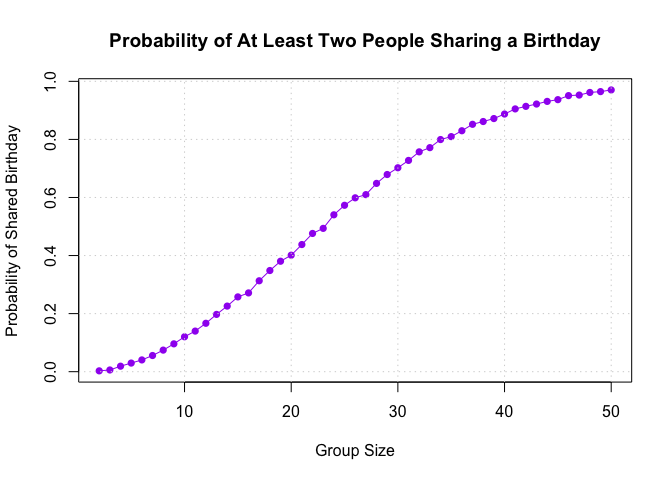
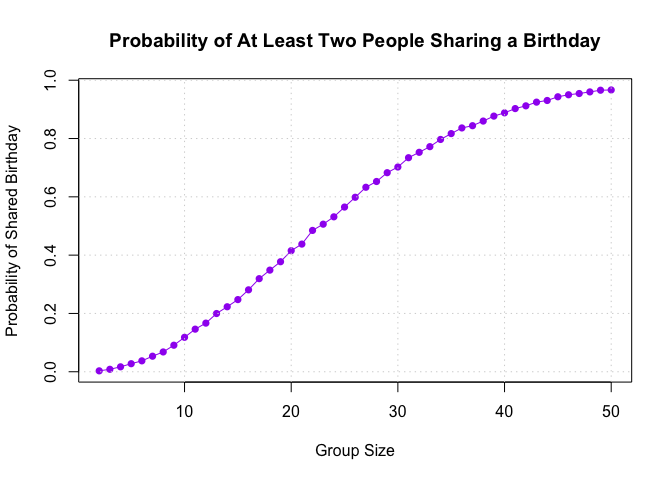
knit

diff --git a/P8105_HW5_YX2953.md b/P8105_HW5_YX2953.md
@@ -1,0 +1,283 @@
+P8105_HW5_YX2953
+================
+2024-11-13
+
+Problem 1
+
+``` r
+birthday_simulation <- function(group_size) {
+  # Generate random birthdays for the group
+  birthdays <- sample(1:365, group_size, replace = TRUE)
+  # Check if there are any duplicate birthdays
+  return(any(duplicated(birthdays)))
+}
+
+birthday_paradox_probabilities <- function(max_group_size = 50, simulations = 10000) {
+  probabilities <- numeric(max_group_size - 1)
+  
+  for (group_size in 2:max_group_size) {
+    # Run the simulation and calculate the probability of duplicate birthdays
+    duplicates <- sum(replicate(simulations, birthday_simulation(group_size)))
+    probabilities[group_size - 1] <- duplicates / simulations
+  }
+  
+  return(probabilities)
+}
+
+# Run the simulation for group sizes 2 to 50
+probabilities <- birthday_paradox_probabilities()
+
+# Plot the probabilities
+group_sizes <- 2:50
+plot(group_sizes, probabilities, type = "o", pch = 16, col = "purple",
+     xlab = "Group Size", ylab = "Probability of Shared Birthday",
+     main = "Probability of At Least Two People Sharing a Birthday")
+grid()
+```
+
+![](P8105_HW5_YX2953_files/figure-gfm/unnamed-chunk-1-1.png)<!-- -->
+
+Problem 2
+
+``` r
+library(broom)
+
+n <- 30
+sigma <- 5
+alpha <- 0.05
+mu_values <- c(0, 1, 2, 3, 4, 5, 6)
+num_simulations <- 5000
+
+# Create empty data frame to store results
+results <- data.frame(mu = numeric(), estimate = numeric(), p_value = numeric())
+
+# for each mu, sun the simulation 
+for (mu in mu_values) {
+  for (i in 1:num_simulations) {
+    # Generate random sample from N(mu, sigma)
+    x <- rnorm(n, mean = mu, sd = sigma)
+    
+    # Perform one-sample t-test
+    t_test_result <- t.test(x, mu = 0)
+    
+    # Extract estimate and p-value
+    tidy_result <- tidy(t_test_result)
+    estimate <- tidy_result$estimate
+    p_value <- tidy_result$p.value
+    
+    # Store results
+    results <- rbind(results, data.frame(mu = mu, estimate = estimate, p_value = p_value))
+  }
+}
+
+# Calculate power for each mu
+power_results <- aggregate(p_value ~ mu, data = results, function(p) mean(p < alpha))
+
+# Plot power as a function of effect size
+plot(power_results$mu, power_results$p_value, type = "o", pch = 16, col = "purple",
+     xlab = "True Value of Mu", ylab = "Power (Proportion of Null Rejections)",
+     main = "Power of the Test as a Function of Effect Size")
+grid()
+```
+
+![](P8105_HW5_YX2953_files/figure-gfm/unnamed-chunk-2-1.png)<!-- -->
+
+``` r
+# Calculate average estimate and conditional average for null rejections
+average_estimate <- aggregate(estimate ~ mu, data = results, mean)
+average_reject_estimate <- aggregate(estimate ~ mu, data = subset(results, p_value < alpha), mean)
+
+# Plot average estimate vs. true value of mu
+plot(average_estimate$mu, average_estimate$estimate, type = "o", pch = 16, col = "lightgreen",
+     xlab = "True Value of Mu", ylab = "Average Estimate",
+     main = "Average Estimate as a Function of True Mu")
+points(average_reject_estimate$mu, average_reject_estimate$estimate, type = "o", pch = 16, col = "lightblue")
+legend("topleft", legend = c("Average Estimate", "Average Estimate (Null Rejected)"),
+       col = c("lightgreen", "lightblue"), pch = 16)
+grid()
+```
+
+![](P8105_HW5_YX2953_files/figure-gfm/unnamed-chunk-2-2.png)<!-- -->
+Description: The first plot shows that the power increases when the
+effect size increases. When the effect size is larger than 4, the power
+gets very close to 1.
+
+The second plot shows that the sample average of mu^ across tests for
+which the null is rejected tend to be larger than the true value of mu.
+I think it is due to selection bias of hypothesis testing. We only
+consider cases with significant results, especially with small sizes of
+effects, so it will lead to overestimation of true effect.
+
+Problem 3
+
+Describe the raw data: This dataset provides detailed information on
+individual homicide cases, allowing analysis of homicide resolution
+rates, victim demographics and geographical trends. Some key variables
+are city and state, which allows for grouping by location, dispositions,
+which show the status of the homicide, etc.
+
+``` r
+# Load necessary libraries
+library(dplyr)
+```
+
+    ## 
+    ## Attaching package: 'dplyr'
+
+    ## The following objects are masked from 'package:stats':
+    ## 
+    ##     filter, lag
+
+    ## The following objects are masked from 'package:base':
+    ## 
+    ##     intersect, setdiff, setequal, union
+
+``` r
+library(broom)
+library(tidyr)
+library(purrr)
+library(ggplot2)
+
+# Load data (assuming the file is in your working directory)
+homicide_data <- read.csv("homicide-data.csv", stringsAsFactors = FALSE)
+
+# Inspect the raw data
+str(homicide_data)
+```
+
+    ## 'data.frame':    52179 obs. of  12 variables:
+    ##  $ uid          : chr  "Alb-000001" "Alb-000002" "Alb-000003" "Alb-000004" ...
+    ##  $ reported_date: int  20100504 20100216 20100601 20100101 20100102 20100126 20100127 20100127 20100130 20100210 ...
+    ##  $ victim_last  : chr  "GARCIA" "MONTOYA" "SATTERFIELD" "MENDIOLA" ...
+    ##  $ victim_first : chr  "JUAN" "CAMERON" "VIVIANA" "CARLOS" ...
+    ##  $ victim_race  : chr  "Hispanic" "Hispanic" "White" "Hispanic" ...
+    ##  $ victim_age   : chr  "78" "17" "15" "32" ...
+    ##  $ victim_sex   : chr  "Male" "Male" "Female" "Male" ...
+    ##  $ city         : chr  "Albuquerque" "Albuquerque" "Albuquerque" "Albuquerque" ...
+    ##  $ state        : chr  "NM" "NM" "NM" "NM" ...
+    ##  $ lat          : num  35.1 35.1 35.1 35.1 35.1 ...
+    ##  $ lon          : num  -107 -107 -107 -107 -107 ...
+    ##  $ disposition  : chr  "Closed without arrest" "Closed by arrest" "Closed without arrest" "Closed by arrest" ...
+
+``` r
+head(homicide_data)
+```
+
+    ##          uid reported_date victim_last victim_first victim_race victim_age
+    ## 1 Alb-000001      20100504      GARCIA         JUAN    Hispanic         78
+    ## 2 Alb-000002      20100216     MONTOYA      CAMERON    Hispanic         17
+    ## 3 Alb-000003      20100601 SATTERFIELD      VIVIANA       White         15
+    ## 4 Alb-000004      20100101    MENDIOLA       CARLOS    Hispanic         32
+    ## 5 Alb-000005      20100102        MULA       VIVIAN       White         72
+    ## 6 Alb-000006      20100126        BOOK    GERALDINE       White         91
+    ##   victim_sex        city state      lat       lon           disposition
+    ## 1       Male Albuquerque    NM 35.09579 -106.5386 Closed without arrest
+    ## 2       Male Albuquerque    NM 35.05681 -106.7153      Closed by arrest
+    ## 3     Female Albuquerque    NM 35.08609 -106.6956 Closed without arrest
+    ## 4       Male Albuquerque    NM 35.07849 -106.5561      Closed by arrest
+    ## 5     Female Albuquerque    NM 35.13036 -106.5810 Closed without arrest
+    ## 6     Female Albuquerque    NM 35.15111 -106.5378        Open/No arrest
+
+``` r
+# Create city_state variable
+homicide_data <- homicide_data %>%
+  mutate(city_state = paste(city, state, sep = ", "))
+
+# Summarize within cities to obtain the total number of homicides and the number of unsolved homicides
+homicide_summary <- homicide_data %>%
+  group_by(city_state) %>%
+  summarize(
+    total_homicides = n(),
+    unsolved_homicides = sum(disposition %in% c("Closed without arrest", "Open/No arrest"))
+  )
+
+# Filter for Baltimore, MD to perform proportion test
+baltimore_data <- filter(homicide_summary, city_state == "Baltimore, MD")
+
+# Run prop.test for Baltimore, MD
+prop_test_result <- prop.test(baltimore_data$unsolved_homicides, baltimore_data$total_homicides)
+
+# Tidy the prop.test output and extract the estimated proportion and confidence intervals
+tidy_result <- broom::tidy(prop_test_result)
+baltimore_proportion <- tidy_result %>%
+  select(estimate, conf.low, conf.high)
+
+# Display the result
+print(baltimore_proportion)
+```
+
+    ## # A tibble: 1 × 3
+    ##   estimate conf.low conf.high
+    ##      <dbl>    <dbl>     <dbl>
+    ## 1    0.646    0.628     0.663
+
+``` r
+# Define a function to run prop.test and tidy the result
+run_prop_test <- function(unsolved, total) {
+  prop_test_result <- prop.test(unsolved, total)
+  tidy(prop_test_result)
+}
+
+# Use map2 to apply the prop.test function to each city and get proportions and CIs
+homicide_summary <- homicide_summary %>%
+  mutate(
+    test_result = map2(unsolved_homicides, total_homicides, run_prop_test)
+  ) %>%
+  unnest(cols = test_result) %>%
+  select(city_state, total_homicides, unsolved_homicides, estimate, conf.low, conf.high)
+```
+
+    ## Warning: There was 1 warning in `mutate()`.
+    ## ℹ In argument: `test_result = map2(unsolved_homicides, total_homicides,
+    ##   run_prop_test)`.
+    ## Caused by warning in `prop.test()`:
+    ## ! Chi-squared approximation may be incorrect
+
+``` r
+# Rename columns for clarity
+homicide_summary <- homicide_summary %>%
+  rename(
+    proportion_unsolved = estimate,
+    conf_lower = conf.low,
+    conf_upper = conf.high
+  )
+
+# Display the tidy dataframe with estimated proportions and CIs for each city
+print(homicide_summary)
+```
+
+    ## # A tibble: 51 × 6
+    ##    city_state  total_homicides unsolved_homicides proportion_unsolved conf_lower
+    ##    <chr>                 <int>              <int>               <dbl>      <dbl>
+    ##  1 Albuquerqu…             378                146               0.386      0.337
+    ##  2 Atlanta, GA             973                373               0.383      0.353
+    ##  3 Baltimore,…            2827               1825               0.646      0.628
+    ##  4 Baton Roug…             424                196               0.462      0.414
+    ##  5 Birmingham…             800                347               0.434      0.399
+    ##  6 Boston, MA              614                310               0.505      0.465
+    ##  7 Buffalo, NY             521                319               0.612      0.569
+    ##  8 Charlotte,…             687                206               0.300      0.266
+    ##  9 Chicago, IL            5535               4073               0.736      0.724
+    ## 10 Cincinnati…             694                309               0.445      0.408
+    ## # ℹ 41 more rows
+    ## # ℹ 1 more variable: conf_upper <dbl>
+
+``` r
+# Arrange the data by the proportion of unsolved homicides for plotting
+homicide_summary <- homicide_summary %>%
+  arrange(desc(proportion_unsolved))
+
+# Plot with estimates and confidence intervals
+ggplot(homicide_summary, aes(x = reorder(city_state, proportion_unsolved), y = proportion_unsolved)) +
+  geom_point(color = "purple") +
+  geom_errorbar(aes(ymin = conf_lower, ymax = conf_upper), width = 0.2, color = "pink") +
+  coord_flip() +
+  labs(
+    title = "Proportion of Unsolved Homicides with Confidence Intervals by City",
+    x = "City, State",
+    y = "Proportion of Unsolved Homicides"
+  ) +
+  theme_minimal()
+```
+
+![](P8105_HW5_YX2953_files/figure-gfm/unnamed-chunk-5-1.png)<!-- -->
